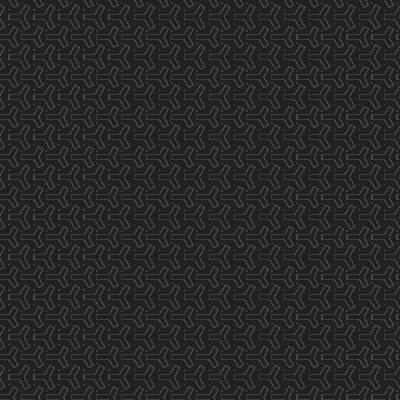
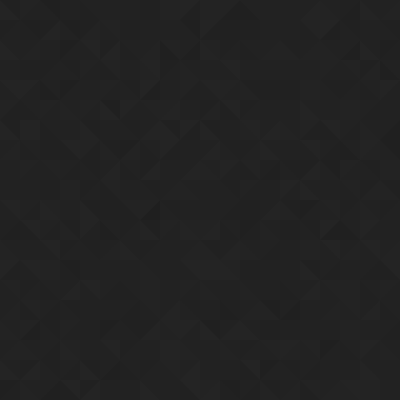
v0.6

Changed region(s): [[0.0, 0.0, 1.0, 1.0]]

diff --git a/templates/home.html b/templates/home.html
@@ -14,10 +14,21 @@
         <!-- Title -->
         <div class="title-box">
             <h1>MyGuitar</h1>
-            <label for="version">v0.1</label>
+            <!-- 0.6 -->
+            <label for="version">v0.6</label>
         </div>
 
         <div class="wrapper">
+            <!-- 0.6 -->
+            <div class="frame">
+                <h2>v0.6</h2>
+                <ul>
+                    <li>Ajout des accords Add9 et Add11</li>
+                    <li>Modifications des exercices disponibles</li>
+                    <li>Premier cours en phase rédaction</li>
+                </ul>
+            </div>
+
             <!-- 0.5 -->
             <div class="frame">
                 <h2>v0.5</h2>

diff --git a/static/css/cours.css b/static/css/cours.css
@@ -103,8 +103,9 @@
 	opacity: 0;
 	pointer-events: none;
 	z-index: 3;
-	transition: all 0.3s ease;
-	background-image: url('../images/background/classes_bg.png');
+	transition: opacity 0.3s ease;
+	/* background-image: url('../images/background/classes_bg.png'); */
+	background-color: rgb(39, 39, 39);
 }
 
 #classview.visible {
@@ -121,9 +122,6 @@
 	backdrop-filter: blur(1px);
 	border-radius: 10px;
 	border: 1px solid #6a6a6ac2;
-}
-
-#classview > .close {
 	position: absolute;
 	top: 2%;
 	right: 2%;

diff --git a/courses/data/fundamentals1.html b/courses/data/fundamentals1.html
@@ -12,7 +12,7 @@
 <section>
     <h6 id="1">La guitare</h6>
     <p>
-        Composée de nombreuses pièces, voici les principales à retenir : <br>
+        Composée de nombreuses pièces, voici les principales : <br>
     </p>
     <img class="center" src="static/images/courses/guitare_lexique.png" alt="lexique-guitare" style="height: 550px;">
 </section>
@@ -21,8 +21,10 @@
 <section>
     <h6 id="2">Les cordes</h6>
     <p>
-        
+        La guitare consiste en 6 cordes, chacune émettant un son différent. <br>
+        Les cordes, de la plus grave (épaisse) à la plus aigûe (fine), peuvent s'accorder de plusieurs manières. L'accordage communément utilisé reste cependant celui-ci :
     </p>
+    <img src="" alt="">
 </section>
 
 <!-- Les frettes -->

diff --git a/templates/gamme.html b/templates/gamme.html
@@ -100,6 +100,10 @@
                         <div data-val="9th" class="item">
                             <h4>9<sup>ème</sup></h4>
                         </div>
+                        <div data-val="11th" class="item">
+                            <h4>11<sup>ème</sup></h4>
+                        </div>
+
                         <div data-val="Sus" class="item">
                             <h4>Sus</h4>
                         </div>

diff --git a/static/css/accords.css b/static/css/accords.css
@@ -44,7 +44,7 @@ main {
     display: flex;
     align-items: center;
     justify-content: center;
-    width: 84px;
+    width: 128px;
     height: 50px;
     overflow: hidden;
     margin: 5px;

diff --git a/static/js/music.js b/static/js/music.js
@@ -84,7 +84,6 @@ function render_fretboard(fretboard_data, fretboard_container) {
 
             if (row_type === 'header') {
                 // Header
-                console.log(row.frets[i])
 
                 cell.classList.add('header');
                 cell.textContent = row.frets[i].fret;

diff --git a/guitar.py b/guitar.py
@@ -885,6 +885,86 @@ class Chord_Triad_Min(Chord):
             ])),
         )
 
+class Chord_MajorAdd9(Chord):
+    def __init__(self, root_note:Note):
+        super().__init__(root_note)
+        self.name += "Add9 (M)"
+        self.kind = "9th"
+        self.structure = [0, 4, 7, 14]
+        self.sound = "Dreamy"
+        self.patterns = (
+            # Pattern 1
+            Pattern(ChordPosition(self.rootNote, [
+                NotePosition(0, INTERVALS['9M']),
+                NotePosition(1, INTERVALS['5J']),
+                NotePosition(2, INTERVALS['3M']),
+                NotePosition(5, INTERVALS['FD']),
+            ])),
+            Pattern(ChordPosition(self.rootNote, [
+                NotePosition(1, INTERVALS['9M']),
+                NotePosition(3, INTERVALS['3M']),
+                NotePosition(4, INTERVALS['FD']),
+            ])),
+        )
+
+class Chord_MinorAdd9(Chord):
+    def __init__(self, root_note:Note):
+        super().__init__(root_note)
+        self.name += "Add9 (m)"
+        self.kind = "9th"
+        self.structure = [0, 3, 7, 14]
+        self.sound = "Dreamy"
+        self.patterns = (
+            # Pattern 1
+            Pattern(ChordPosition(self.rootNote, [
+                NotePosition(0, INTERVALS['9M']),
+                NotePosition(1, INTERVALS['5J']),
+                NotePosition(2, INTERVALS['3m']),
+                NotePosition(5, INTERVALS['FD']),
+            ])),
+            Pattern(ChordPosition(self.rootNote, [
+                NotePosition(1, INTERVALS['9M']),
+                NotePosition(3, INTERVALS['3m']),
+                NotePosition(4, INTERVALS['FD']),
+            ])),
+        )
+
+class Chord_MajorAdd11(Chord):
+    def __init__(self, root_note:Note):
+        super().__init__(root_note)
+        self.name += "Add11 (M)"
+        self.kind = "11th"
+        self.structure = [0, 4, 7, 17]
+        self.sound = ""
+        self.patterns = (
+            # Pattern 1
+            Pattern(ChordPosition(self.rootNote, [
+                NotePosition(0, INTERVALS["5J"]),
+                NotePosition(1, INTERVALS["3M"]),
+                NotePosition(2, INTERVALS["FD"]),
+                NotePosition(3, INTERVALS["11J"]),
+                NotePosition(4, INTERVALS["FD"])
+            ])),
+        )
+
+class Chord_MinorAdd11(Chord):
+    def __init__(self, root_note:Note):
+        super().__init__(root_note)
+        self.name += "Add11 (m)"
+        self.kind = "11th"
+        self.structure = [0, 4, 7, 17]
+        self.sound = ""
+        self.patterns = (
+            # Pattern 1
+            Pattern(ChordPosition(self.rootNote, [
+                NotePosition(0, INTERVALS["5J"]),
+                NotePosition(1, INTERVALS["3m"]),
+                NotePosition(2, INTERVALS["FD"]),
+                NotePosition(3, INTERVALS["11J"]),
+                NotePosition(4, INTERVALS["FD"])
+            ])),
+        )
+
 """
         >> Chord Template <<
 
@@ -1087,6 +1167,8 @@ MAJOR_CHORDS = (
     Chord_Sus4,
     Chord_Pow,
     Chord_Triad_Maj,
+    Chord_MajorAdd9,
+    Chord_MajorAdd11,
 )
 
 MINOR_CHORDS = (
@@ -1098,6 +1180,8 @@ MINOR_CHORDS = (
     Chord_Sus4,
     Chord_Pow,
     Chord_Triad_Min,
+    Chord_MinorAdd9,
+    Chord_MinorAdd11,
 )
 
 DIMINISHED_CHORDS = (

diff --git a/exercises.py b/exercises.py
@@ -3,7 +3,5 @@ from guitar import Exercise
 # # # # # # # # # # # # # # # # # #
 
 # Exercises #
-Exercise('Araignée', 'technique', 'spider.gp')
-Exercise('Gammes Maj/Min', 'gammes', 'scales1.gp')
 Exercise('Triades (La M)', 'technique', 'triades_la_maj.gp')
-Exercise('Harmoniques - v1', 'technique', 'harmonics1.gp')
+Exercise('Accords - v1', 'technique', 'chords1.gp')